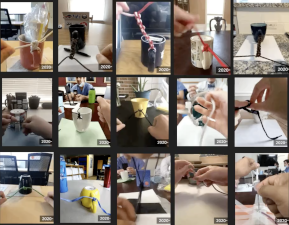
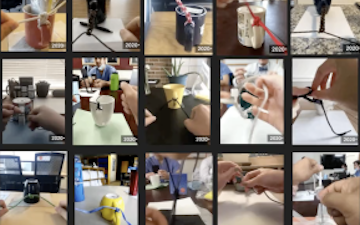
attempt fix thumbs, add remote anatomy

diff --git a/index.html b/index.html
@@ -41,13 +41,11 @@
 						</article>
 
 
-						<!--
 						<article>
-							<a class="thumbnail" href="images/fulls/03.jpg" data-position="top center"><img src="images/thumbs/03.jpg" alt="" /></a>
-							<h2>Nec accumsan enim felis</h2>
-							<p>Maecenas eleifend tellus ut turpis eleifend, vitae pretium faucibus.</p>
+							<a class="thumbnail" href="images/fulls/remote-anatomy-full.png" data-position="top center"><img src="images/thumbs/remote-anatomy-thumb.jpeg" alt="" /></a>
+							<h2>Remote anatomy dissection courses</h2>
+							<p>Revealing the secrets of the body with live Zoom prosection. Collaboration with Buffalo Public School #233</p>
 						</article>
-					  -->
 
 						<!--
 						<article>
